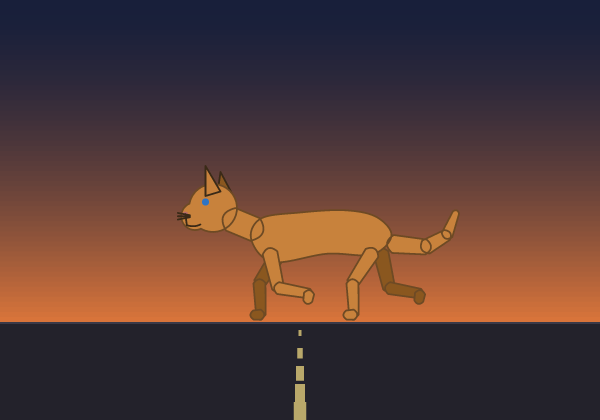
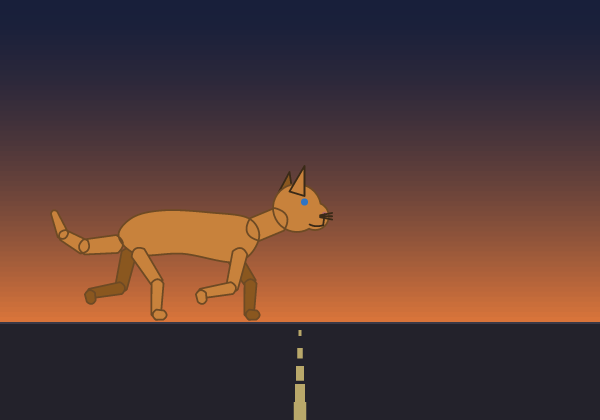
gallery: face the safari cat right (into the page)
It'll sit to the left of the home-page text, so a left-facing cat would walk
off the edge. Flip faceRight + mirror its placement left-of-centre to leave
room ahead.

Changed region(s): [[0.09, 0.4024, 0.78, 0.7738]]

diff --git a/games/driving/gallery_cat.ts b/games/driving/gallery_cat.ts
@@ -19,7 +19,7 @@ const GROUND_Y = 322;          // the road line the cat leaps over
 const UNIT_PX = 150;           // pixels per cat-unit (full standing height)
 const CAT_HEIGHT = 1.7;
 const SILH_CX = 0.30;          // x of the silhouette's centre, cat-frame units
-const CX = 330;                // a touch right of centre — the cat faces left, so leave it room ahead
+const CX = 270;                // a touch left of centre — the cat faces RIGHT (into the page), so leave it room ahead
 
 // dusk palette — evokes the app's signature sunset without importing its staging.
 const SKY_TOP = '#181f3a';     // deep dusk blue overhead
@@ -62,9 +62,10 @@ for (let i = 0; i < 5; i++) {
   ctx.fillRect(W / 2 - w / 2, y, w, dash);
 }
 
-// The cat — a grounded mid-stride profile, facing left, planted on the road. (The
-// airborne leap pose reads as "floating" out of motion; a walking profile is the
-// most legible single still — unmistakably the cat, on its feet, at dusk.)
+// The cat — a grounded mid-stride profile, facing RIGHT (walking into the page, so
+// it won't stroll off the edge when it sits left of the home-page text). The airborne
+// leap pose reads as "floating" out of motion; a walking profile is the most legible
+// single still — unmistakably the cat, on its feet, at dusk.
 const project: Project = (right, _forward, height) => ({
   x: CX + (right - SILH_CX) * UNIT_PX,
   y: GROUND_Y - (height / CAT_HEIGHT) * UNIT_PX,
@@ -72,7 +73,7 @@ const project: Project = (right, _forward, height) => ({
 const view: CatView = {
   at: { right: 0, forward: 10 },
   height: CAT_HEIGHT,
-  faceRight: false,
+  faceRight: true,
   form: CAT,
   walk: Math.PI / 2,   // mid-stride — legs clearly striding, not tucked
   headFront: false,
